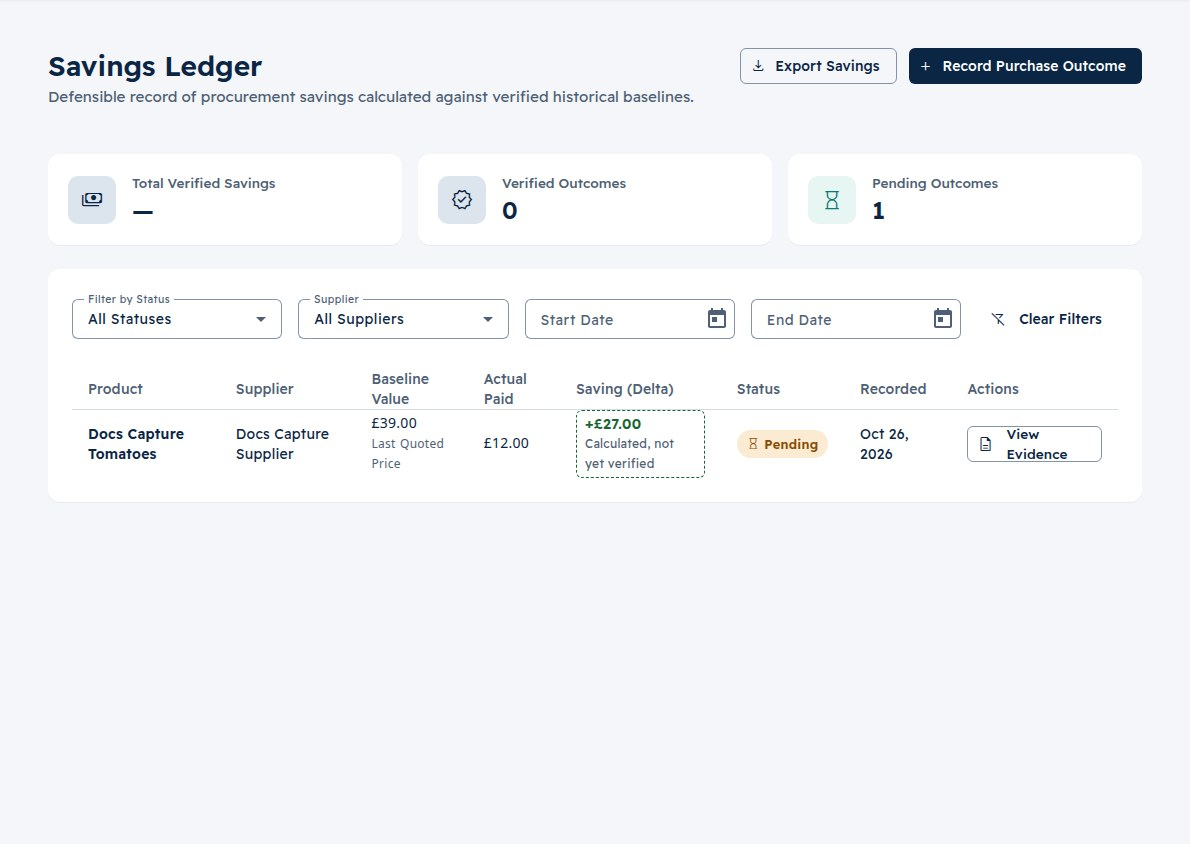
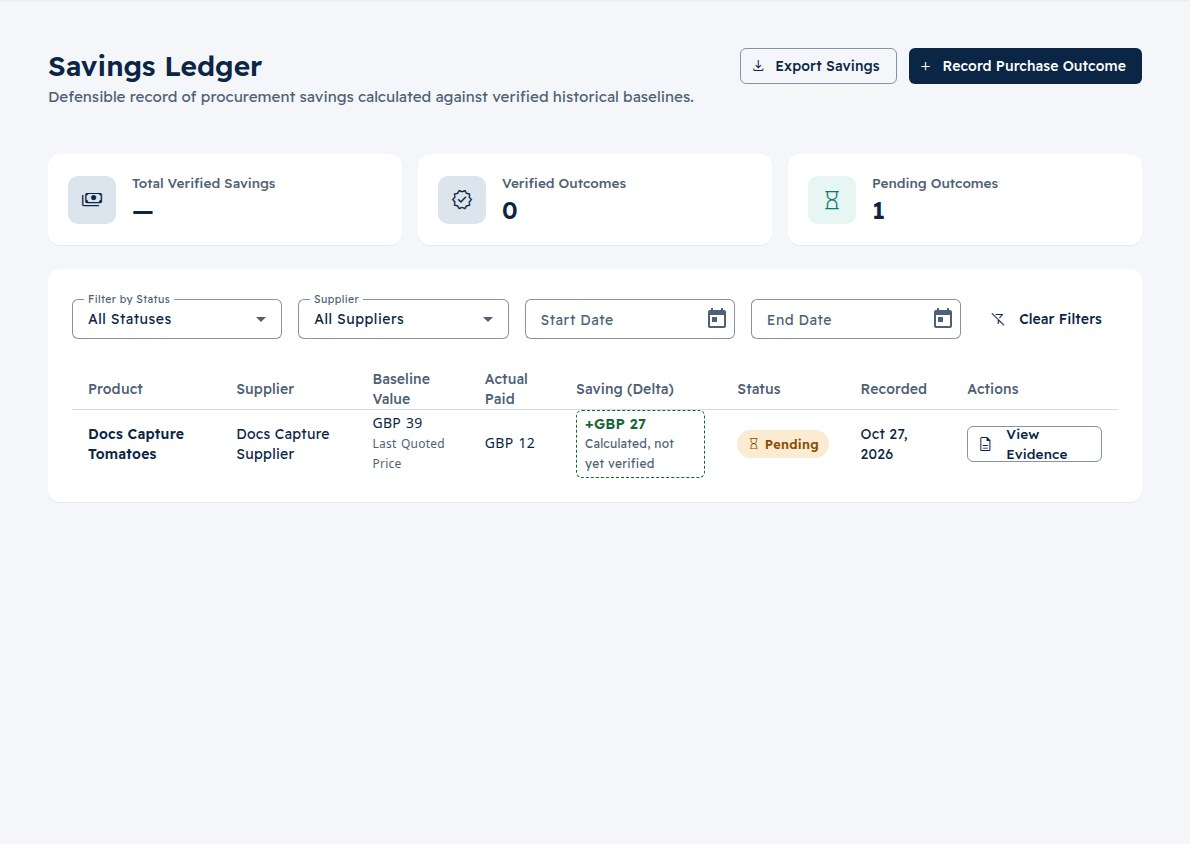
fix(web): guardrail limit label uses the money format; re-capture money screenshots (PPS-85)
RFQ compare's guardrail label still built "Up to {{amount}} {{currency}}" from raw values
(Arabic «حتى 500.00 EGP»). It now passes one {{money}} from FormatService.formatMoney:
«حتى ٥٠٠ ج.م» / "Up to GBP 500". The user docs example is updated to match.

Docs screenshots 08b, 08c, 10, 10b, 13 and 13c re-committed from #308's CI artifact
(run 40495848320); 08b and 08c had drifted 1.8% and 2.0%.

diff --git a/apps/web/src/app/features/rfq/compare/compare.component.spec.ts b/apps/web/src/app/features/rfq/compare/compare.component.spec.ts
@@ -11,7 +11,7 @@ import {
 } from '../rfq-api';
 import { ApiService } from '../../../core/api/api.service';
 import { ActivatedRoute, Router } from '@angular/router';
-import { provideTranslateService } from '@ngx-translate/core';
+import { provideTranslateService, TranslateService } from '@ngx-translate/core';
 import { of } from 'rxjs';
 import { provideNoopAnimations } from '@angular/platform-browser/animations';
 import { MatSnackBar } from '@angular/material/snack-bar';
@@ -348,7 +348,10 @@ describe('CompareComponent (RFQ)', () => {
   });
 
   it('labels a known guardrail by its limit', () => {
-    expect(component.guardrailLabel('g-1')).toContain('rfq.compare.guardrailLabel');
+    const translate = TestBed.inject(TranslateService);
+    translate.setTranslation('en', enCatalog, true);
+    translate.use('en');
+    expect(component.guardrailLabel('g-1')).toBe('Up to GBP 500');
     expect(component.guardrails()[0].max_order_value_amount).toBe('500.00');
   });
 

diff --git a/apps/web/src/app/features/rfq/compare/compare.component.ts b/apps/web/src/app/features/rfq/compare/compare.component.ts
@@ -200,8 +200,10 @@ export class CompareComponent implements OnInit {
       return this.translate.instant('rfq.compare.guardrail');
     }
     return this.translate.instant('rfq.compare.guardrailLabel', {
-      amount: guardrail.max_order_value_amount,
-      currency: guardrail.max_order_value_currency,
+      money: this.formatService.formatMoney({
+        amount: guardrail.max_order_value_amount,
+        currency: guardrail.max_order_value_currency,
+      }),
     });
   }
 

diff --git a/docs/user/user-documentation.md b/docs/user/user-documentation.md
@@ -1301,7 +1301,7 @@ A screen for owners to configure auto-preparation guardrails without needing API
 | 1 | **Page title — "RFQ Responses"** | Compares every captured supplier response to this RFQ side by side. |
 | 2 | **Deliver to Branch / Required By controls** | Set once and used for whichever response you prepare into a request. |
 | 3 | **Response cards** | One card per supplier response: supplier name, submitted date, and a line table (product, quantity, unit price, total value). A line whose product hasn't been matched yet to a catalogue product shows a **Pending Match** badge instead of a price line. |
-| 4 | **Guardrail outcomes panel** | Shown on each response card, for both Owners and Buyers, whenever at least one guardrail is configured: one row per guardrail, labelled by its limit ("Up to 500.00 GBP"), with a plain-language reason for why it did or didn't fire for *this* response. A fired guardrail's row is visually distinguished from the rest. |
+| 4 | **Guardrail outcomes panel** | Shown on each response card, for both Owners and Buyers, whenever at least one guardrail is configured: one row per guardrail, labelled by its limit ("Up to GBP 500"), with a plain-language reason for why it did or didn't fire for *this* response. A fired guardrail's row is visually distinguished from the rest. |
 | 5 | **Deliver to Branch + Prepare Request** | Choose the branch first (pre-selected when you have only one, or your last choice); **Prepare Request** is refused until a branch is set. It creates a draft purchase request priced from this response's quoted prices, with its Required By date taken from the RFQ's needed-by date, and marks the RFQ `Converted`. Disabled while any line on the response is still a pending match. The confirmation has an **Open draft** action and then opens the new draft. |
 | 6 | **No responses state** | Shown until at least one supplier reply has been captured and matched. |
 
